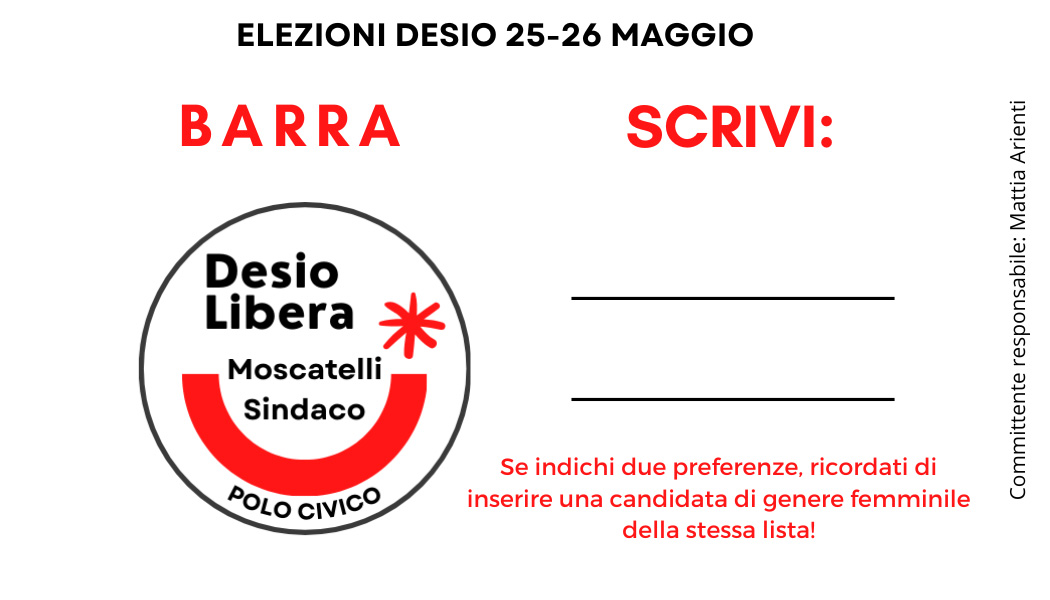
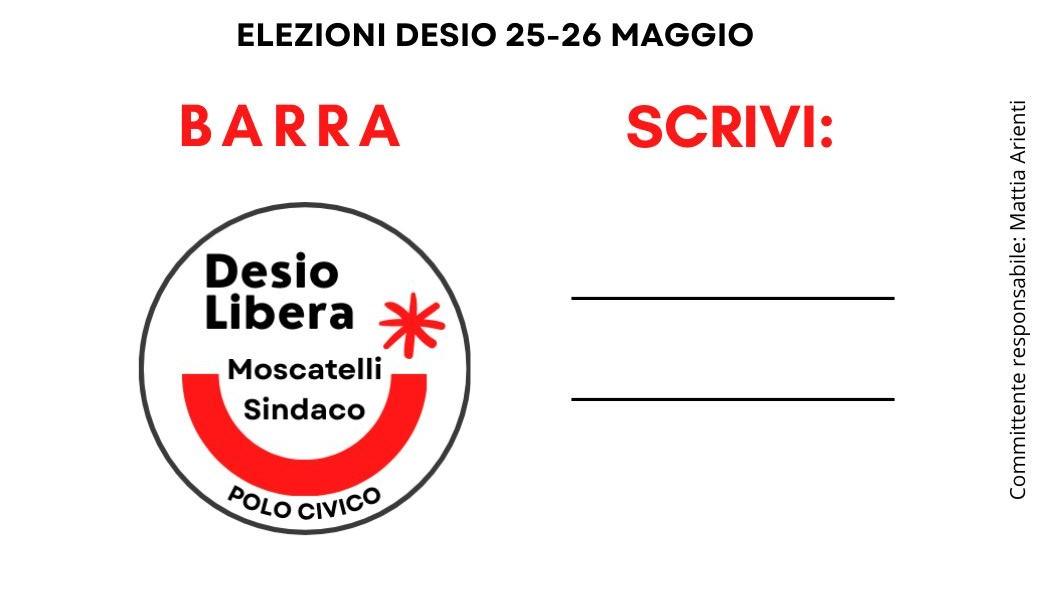
Add CTA instructions and disclaimer with animations for voting section

diff --git a/index.html b/index.html
@@ -566,6 +566,34 @@
         border: 4px solid #fff;
       }
 
+      .cta-istruzioni {
+        margin-top: 40px;
+        text-align: center;
+        font-size: 0.95rem;
+        color: #fff; /* bianco */
+        max-width: 600px;
+        margin-left: auto;
+        margin-right: auto;
+        opacity: 0;
+        transform: translateY(20px);
+        line-height: 1.4;
+        text-shadow: 1px 1px 4px rgba(0, 0, 0, 0.5);
+      }
+
+      .cta-disclaimer {
+        margin-top: 40px;
+        text-align: center;
+        font-size: 0.95rem;
+        color: #fff; /* bianco */
+        max-width: 600px;
+        margin-left: auto;
+        margin-right: auto;
+        opacity: 0;
+        transform: translateY(20px);
+        line-height: 1.4;
+        text-shadow: 1px 1px 4px rgba(0, 0, 0, 0.5);
+      }
+
       .voto-wrapper {
         position: relative;
         width: 100%;
@@ -1592,10 +1620,9 @@
       <div class="container">
         <div data-aos="zoom-in" data-aos-duration="800">
           <h2>Come votare Desio Libera</h2>
-          <p>
-            Metti una <b>X</b> sul simbolo di Desio Libera e scrivi una
-            preferenza di candidato. Se indichi due preferenze, ricordati di
-            inserire un uomo e una donna della lista di Desio Libera.
+          <p class="cta-istruzioni">
+            Metti una <b>X</b> sul simbolo di Desio Libera<br />e scrivi il
+            cognome del candidato preferito.
           </p>
           <div class="cta-container">
             <div class="voto-wrapper">
@@ -1651,6 +1678,11 @@
               </svg>
             </div>
           </div>
+          <p class="cta-disclaimer">
+            "Se esprimi <b>due</b> preferenze, ricordati che devono essere
+            candidati di <b>genere diverso</b> appartenenti alla
+            <b>stessa lista</b>!"
+          </p>
         </div>
       </div>
     </section>

diff --git a/js/script.js b/js/script.js
@@ -291,7 +291,6 @@ function animateCognomeInTimeline(timeline) {
 }
 
 function animateCTA() {
-  // Animazione container CTA
   gsap.to('.cta-container', {
     duration: 1,
     delay: 0.3,
@@ -305,7 +304,6 @@ function animateCTA() {
     }
   });
 
-  // Timeline per X + Cognome in sequenza
   const tlX = gsap.timeline({
     scrollTrigger: {
       trigger: '.voto-wrapper',
@@ -314,23 +312,32 @@ function animateCTA() {
     }
   });
 
-  // Prima linea della X
+  // Prima linea
   tlX.to('#x-line1', {
     attr: { x2: 90, y2: 90 },
     duration: 0.6,
     ease: 'power1.out',
   });
 
-  // Seconda linea della X
+  // Seconda linea
   tlX.to('#x-line2', {
     attr: { x2: 90, y2: 10 },
     duration: 0.6,
     ease: 'power1.out',
   });
 
-  // Dopo la X --> scritta Cognome
+  // Cognome
   animateCognomeInTimeline(tlX);
+
+  // Disclaimer
+  tlX.to('.cta-disclaimer', {
+    opacity: 1,
+    y: 0,
+    duration: 0.8,
+    ease: 'power2.out'
+  });
 }
+
 
   // =========================
   // 9. MODALE MULTI-PURPOSE
